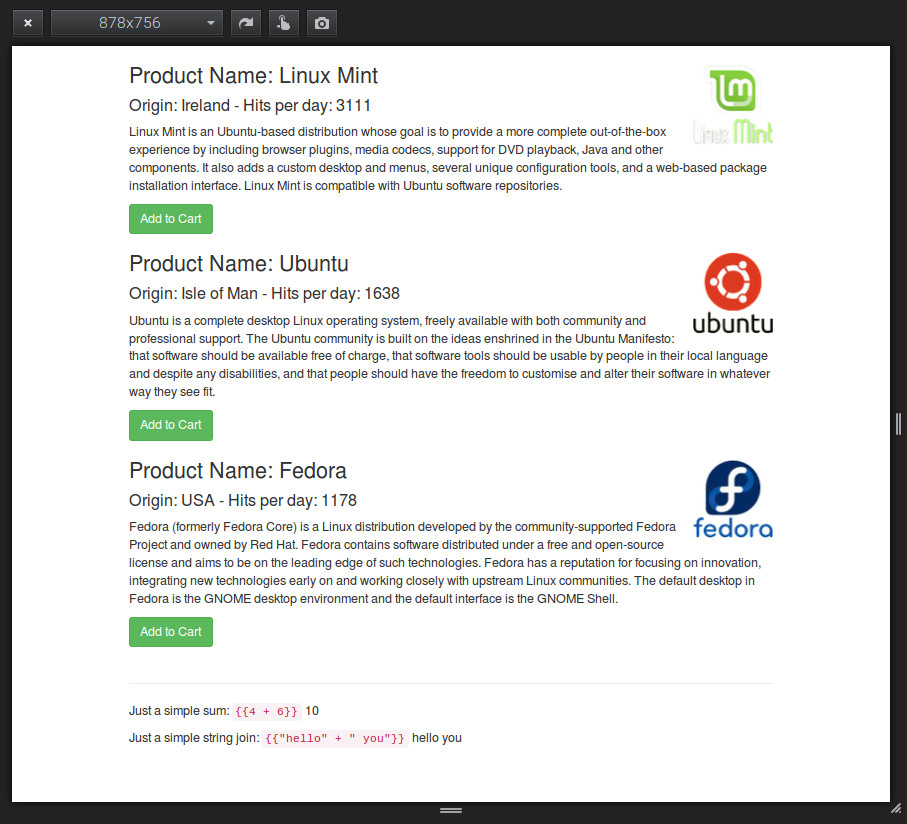
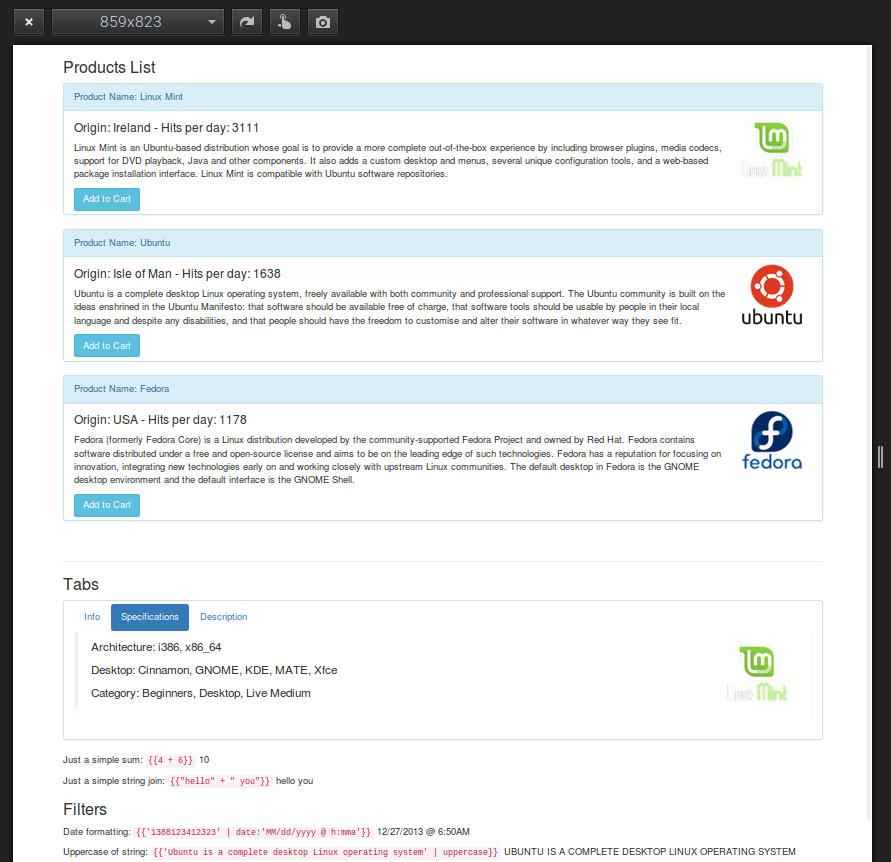
improved bootstrap and added tabs

Changed region(s): [[0.0, 0.0, 0.9697, 0.8192], [0.0, 0.0607, 1.0, 1.0], [0.3939, 0.8799, 0.5152, 0.9102]]

diff --git a/[AngularJS][Bootstrap] list of products/index1.html b/[AngularJS][Bootstrap] list of products/index1.html
@@ -3,18 +3,55 @@
 <head>
 	<title>AngularJS Example</title>
 	<link rel="stylesheet" type="text/css" href="bootstrap.min.css" />
+	<style>
+	.padded{padding: 5px 15px 5px 15px;}
+	</style>
 </head>
 <body ng-controller="StoreController as store">
 <div class="container">	
-	<div ng-repeat="product in store.product" >
-		<img ng-src="{{product.images[0].full}}" class="pull-right"/>
-		<h3> Product Name: {{product.name}} </h3>		
+	<h3>Products List</h3>
+	<div ng-repeat="product in store.product" class="panel panel-info">		
+		<div class="panel-heading">Product Name: {{product.name}}</div>
+		<div class="padded">
+		<img ng-src="{{product.images[0].full}}" class="pull-right padded"/>
 		<h4> Origin: {{product.origin}} - Hits per day: {{product.hits}}</h4>
-		<p> {{product.description}} </p>
-		<button class="btn btn-success" ng-show="product.canPurchase"> Add to Cart </button>
+		<p> {{product.description}} </p>		
+		<button class="btn btn-info" ng-show="product.canPurchase">Add to Cart</button>
+		</div>
 	</div>
 	<br>
 	<hr>
+	
+	<h3>Tabs</h3>
+	<section ng-controller="PanelController as panel" class="panel panel-default padded">
+		<ul class="nav nav-pills" >
+			<li ng-class="{ active:panel.isSelected(1) }"> <a href ng-click="panel.selectTab(1)">Info</a> </li>
+			<li ng-class="{ active:panel.isSelected(2) }"> <a href ng-click="panel.selectTab(2)">Specifications</a> </li>
+			<li ng-class="{ active:panel.isSelected(3) }"> <a href ng-click="panel.selectTab(3)">Description</a> </li>
+		</ul>
+		{{tab}}
+		<div class="panel" ng-show="panel.isSelected(1)">
+			<blockquote>
+				<img ng-src="{{store.product[0].images[0].full}}" class="pull-right padded"/>
+				<p>Name: {{store.product[0].name}}</p>
+				<p>Origin: {{store.product[0].origin}}</p>
+				<p>Hits: {{store.product[0].hits}}</p>
+			</blockquote>
+		</div>
+		<div class="panel" ng-show="panel.isSelected(2)">
+			<blockquote>
+				<img ng-src="{{store.product[0].images[0].full}}" class="pull-right padded"/>
+				<p>Architecture: {{store.product[0].architecture}}</p>
+				<p>Desktop: {{store.product[0].desktop}}</p>
+				<p>Category: {{store.product[0].category}}</p>
+			</blockquote>
+		</div>
+		<div class="panel" ng-show="panel.isSelected(3)">
+			<blockquote>{{store.product[0].description}}</blockquote>
+		</div>
+		
+	</section>	
+	
 	<p>Just a simple sum: <code ng-non-bindable>{{4 + 6}}</code> {{4 + 6}}</p>
 	<p>Just a simple string join: <code ng-non-bindable>{{"hello" + " you"}}</code> {{"hello" + " you"}}</p>
 	<h3> Filters </h3>

diff --git a/[AngularJS][Bootstrap] list of products/app1.js b/[AngularJS][Bootstrap] list of products/app1.js
@@ -33,6 +33,9 @@
 					thumb: './logos/mint.png'
 				}
 			],	
+			architecture: "i386, x86_64",
+			desktop: "Cinnamon, GNOME, KDE, MATE, Xfce",
+			category: "Beginners, Desktop, Live Medium",
 			canPurchase: true,
 		},
 		{
@@ -50,6 +53,9 @@
 					thumb: './logos/ubuntu.png'
 				}
 			],
+			architecture: "i386, x86_64",
+			desktop: "Cinnamon, GNOME, KDE, MATE, Xfce",
+			category: "Beginners, Desktop, Live Medium",
 			canPurchase: true,
 		},
 		{
@@ -67,6 +73,9 @@
 					thumb: './logos/fedora.png'
 				}
 			],
+			architecture: "i386, x86_64",
+			desktop: "Cinnamon, GNOME, KDE, MATE, Xfce",
+			category: "Beginners, Desktop, Live Medium",
 			canPurchase: true,
 		}
 	];
